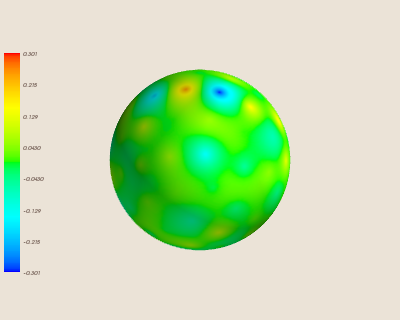
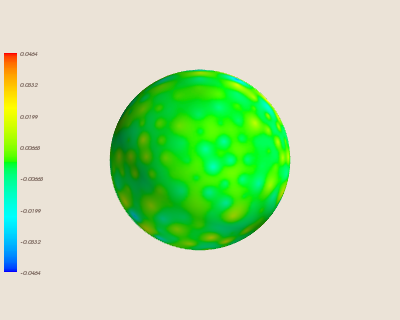
Redid interp with more data sites

Changed region(s): [[0.27, 0.2188, 0.75, 0.7812], [0.03, 0.1562, 0.12, 0.8438], [0.06, 0.8438, 0.12, 0.875]]

diff --git a/Figures/DemoFigures.py b/Figures/DemoFigures.py
@@ -191,7 +191,7 @@ def make_figures(coor, fun, interp_results, error):
     mlab.colorbar(
         # title='Spherical Harmonic', 
         orientation='vertical')
-    mlab.savefig('poorfunctionsphere.png')
+    mlab.savefig('functionsphere.png')
     mlab.close()
 
     # Figure showing results of rbf interpolation
@@ -203,7 +203,7 @@ def make_figures(coor, fun, interp_results, error):
     mlab.colorbar(
         # title='Interpolation', 
         orientation='vertical')
-    mlab.savefig('poorinterpsphere.png')
+    mlab.savefig('interpsphere.png')
     # mlab.show()
     mlab.close()
 
@@ -214,13 +214,13 @@ def make_figures(coor, fun, interp_results, error):
         # title='Error', 
         orientation='vertical')
     # mlab.points3d(coor.coarse.x, coor.coarse.y, coor.coarse.z, scalars, scale_factor=0.1, scale_mode='none',vmax=vmax, vmin=vmin)
-    mlab.savefig('poorerrorsphere.png')
+    mlab.savefig('errorsphere.png')
     mlab.close()
 
 def makemayavifigs():
     # Create coordinate system
     #Fine coordinate given as complex number
-    coor = coordinates(300j, 100)
+    coor = coordinates(300j, 350)
 
     #Create sphere object
     sphere = make_sphere(coor.coarse)
